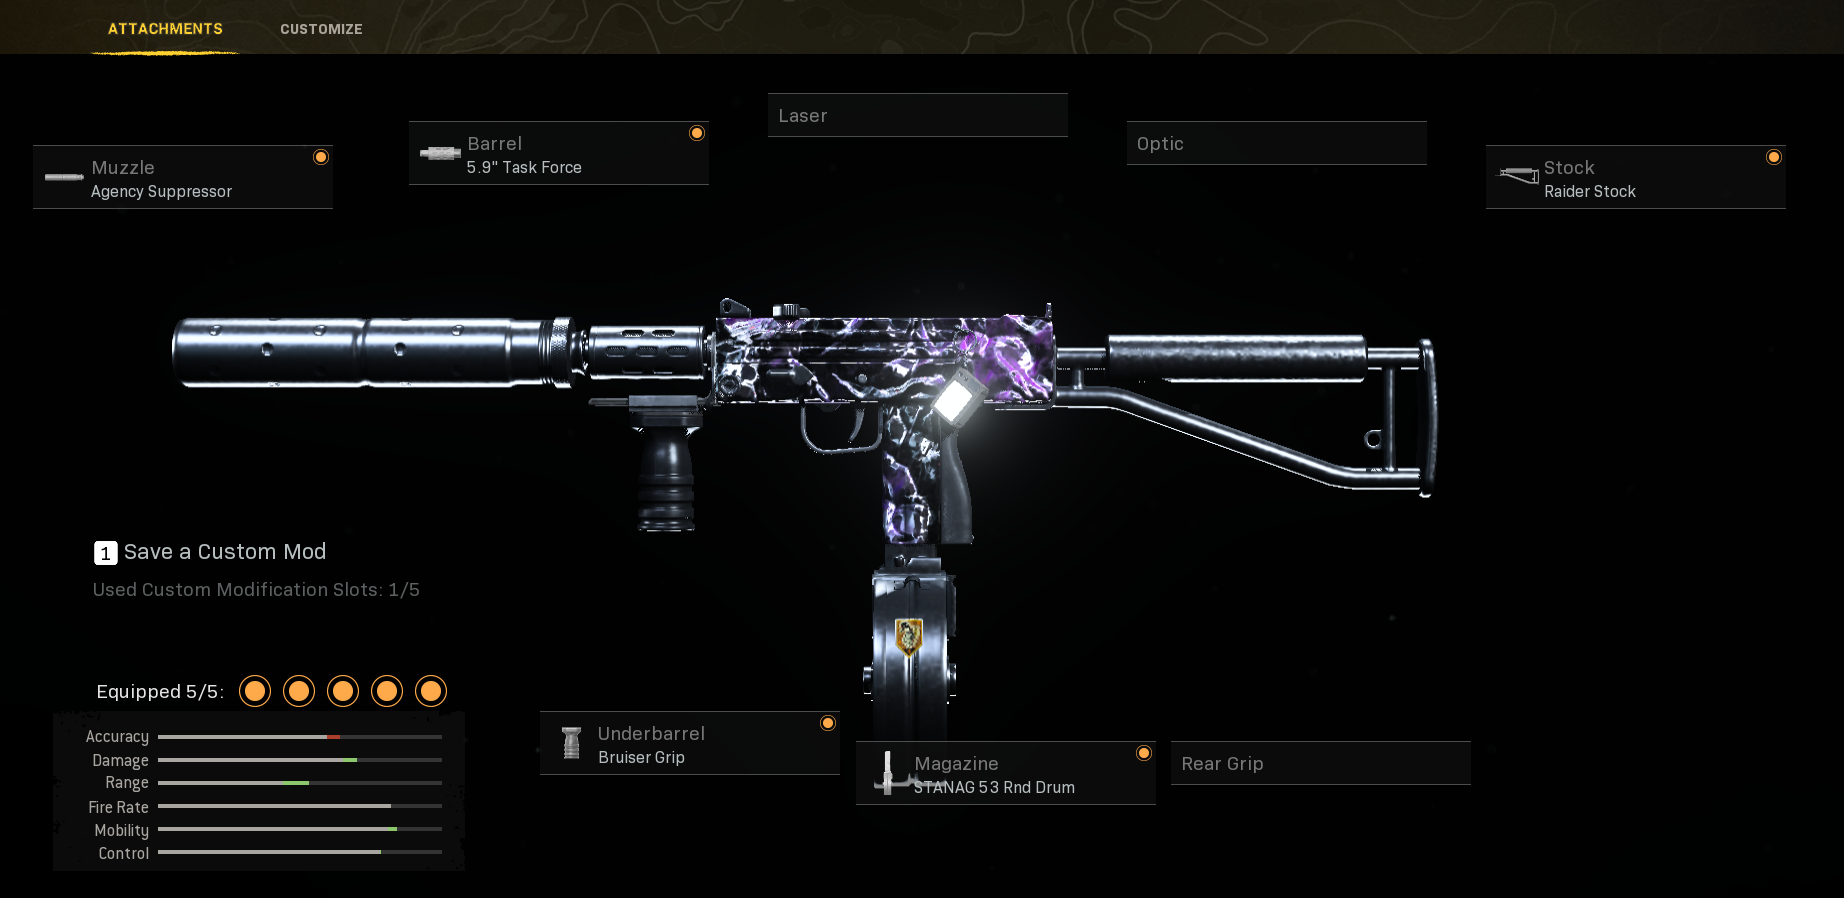
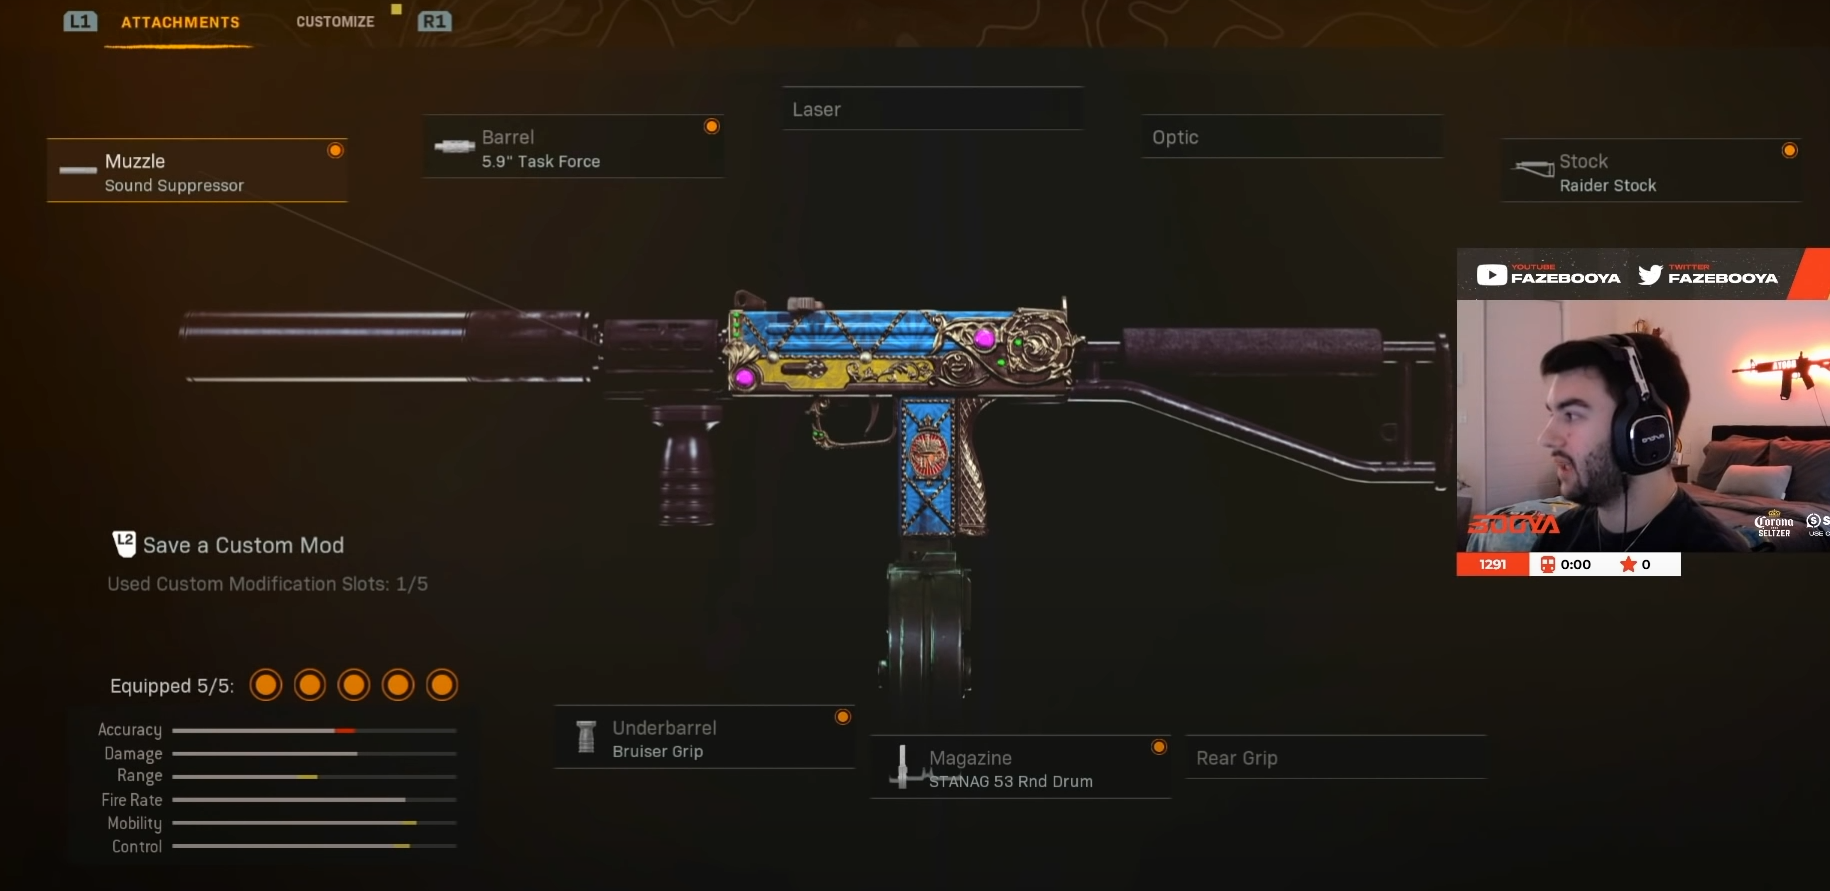
update v1.0.2
Added new builds
- added ram7cqb
- added new mac10 build
- added kilocqb
- added m4a1cqb

Other
- Changed image names.
- updated cw.js mw.js list of guins in their embeds

diff --git a/commands/mw.js b/commands/mw.js
@@ -24,11 +24,23 @@ module.exports = {
                 value: "AR",
                 inline: true
             }, {
+                name: "kilo141cqb",
+                value: "AR",
+                inline: true
+            },{
                 name: "grau",
                 value: "AR",
                 inline: true
             }, {
-                name: "m13lr",
+                name: "ram7",
+                value: "AR",
+                inline: true
+            },{
+                name: "ram7cqb",
+                value: "AR",
+                inline: true
+            },{
+                name: "m13",
                 value: "AR",
                 inline: true
             },{
@@ -48,6 +60,10 @@ module.exports = {
                 value: "AR",
                 inline: true
             }, {
+                name: "m4a1cqb",
+                value: "AR",
+                inline: true
+            },{
                 name: "ram7",
                 value: "AR",
                 inline: true

diff --git a/commands/cw.js b/commands/cw.js
@@ -32,7 +32,7 @@ module.exports = {
                 value: 'SMG',
                 inline: true
             }, {
-                name: "milanolr",
+                name: "milano",
                 value: 'SMG',
                 inline: true
             }, {
@@ -52,7 +52,7 @@ module.exports = {
                 value: 'SMG',
                 inline: true
             }, {
-                name: "ak47lr",
+                name: "ak47",
                 value: 'AR',
                 inline: true
             }, {
@@ -76,7 +76,11 @@ module.exports = {
                 value: 'AR',
                 inline: true
             }, {
-                name: "qbz83",
+                name: "qbz",
+                value: 'AR',
+                inline: true
+            },{
+                name: "qbzcqb",
                 value: 'AR',
                 inline: true
             }, {
